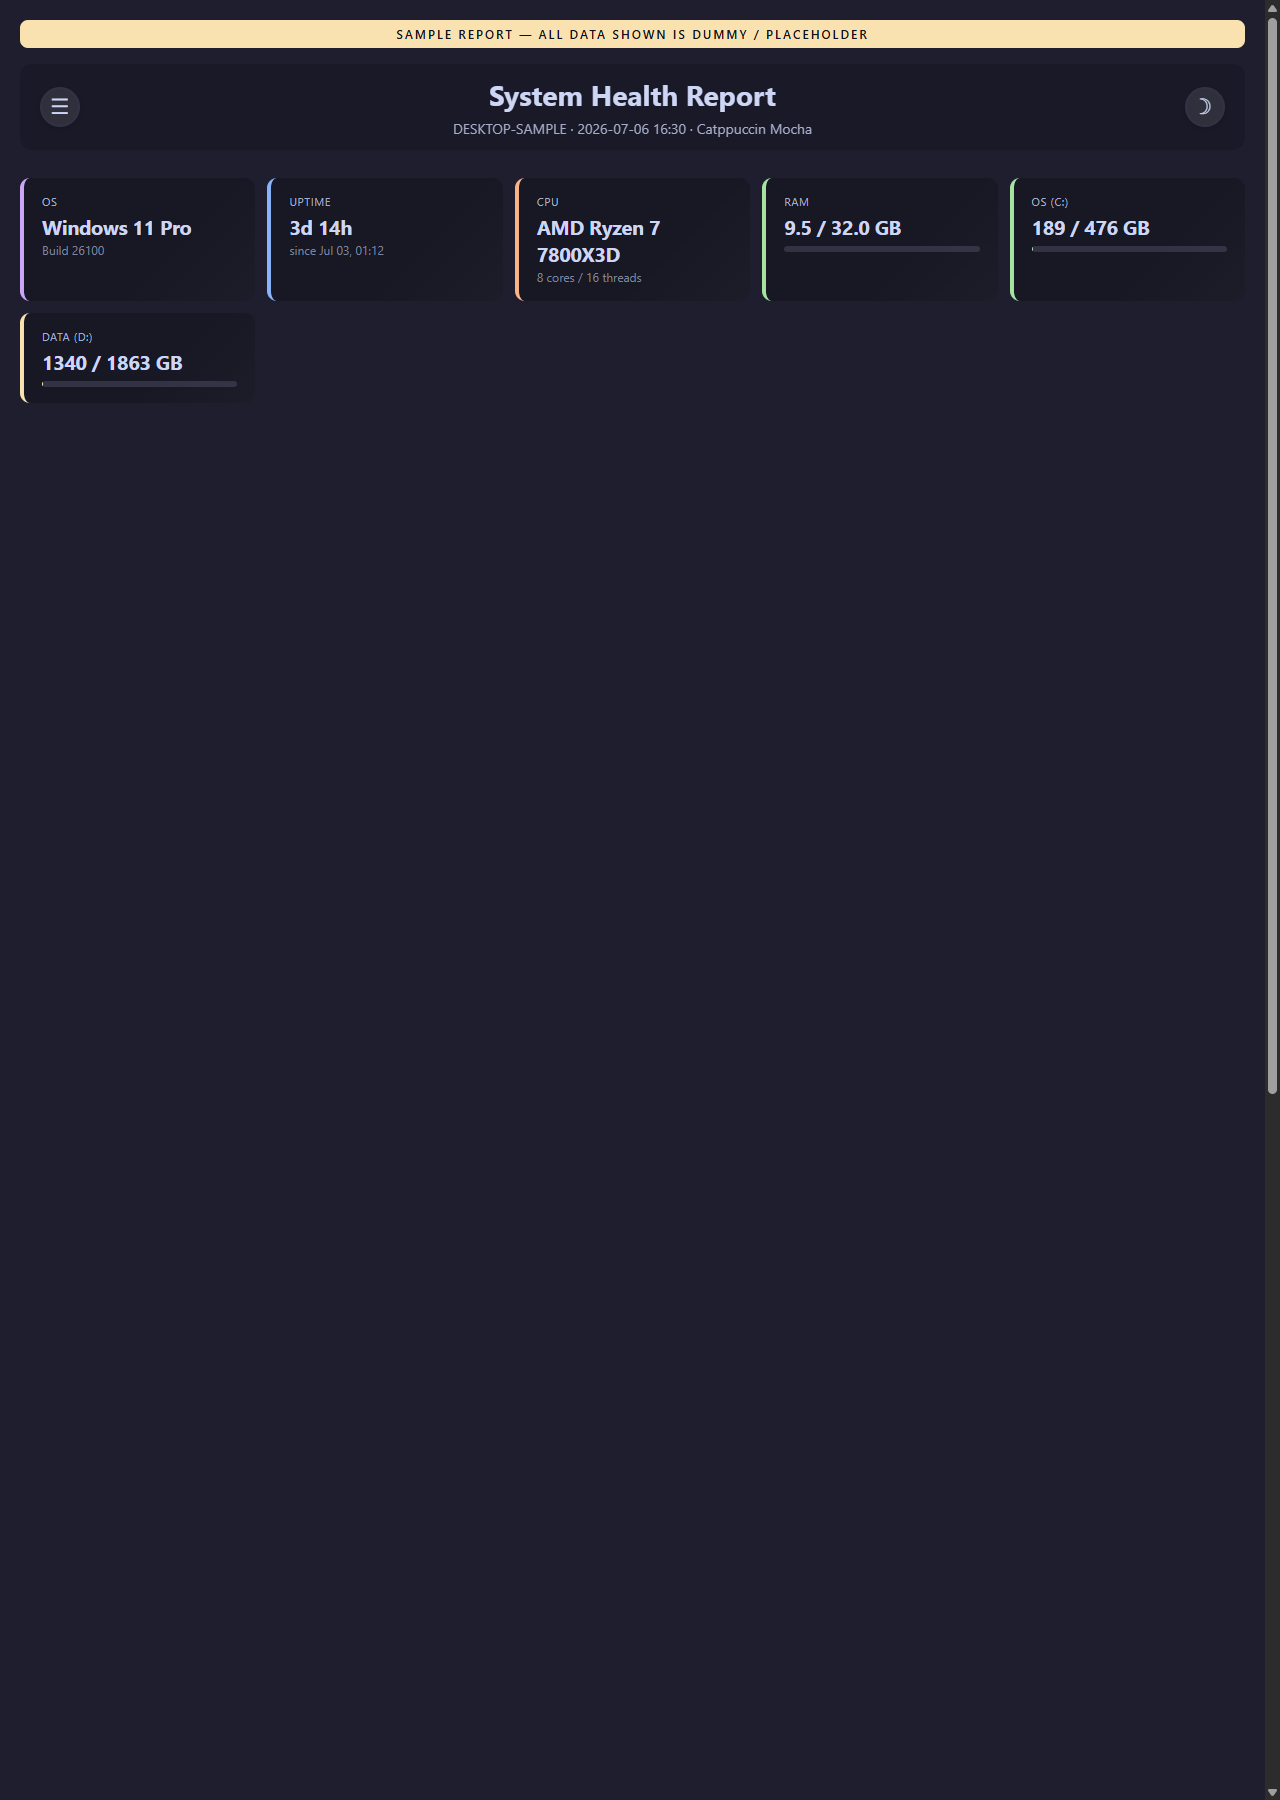
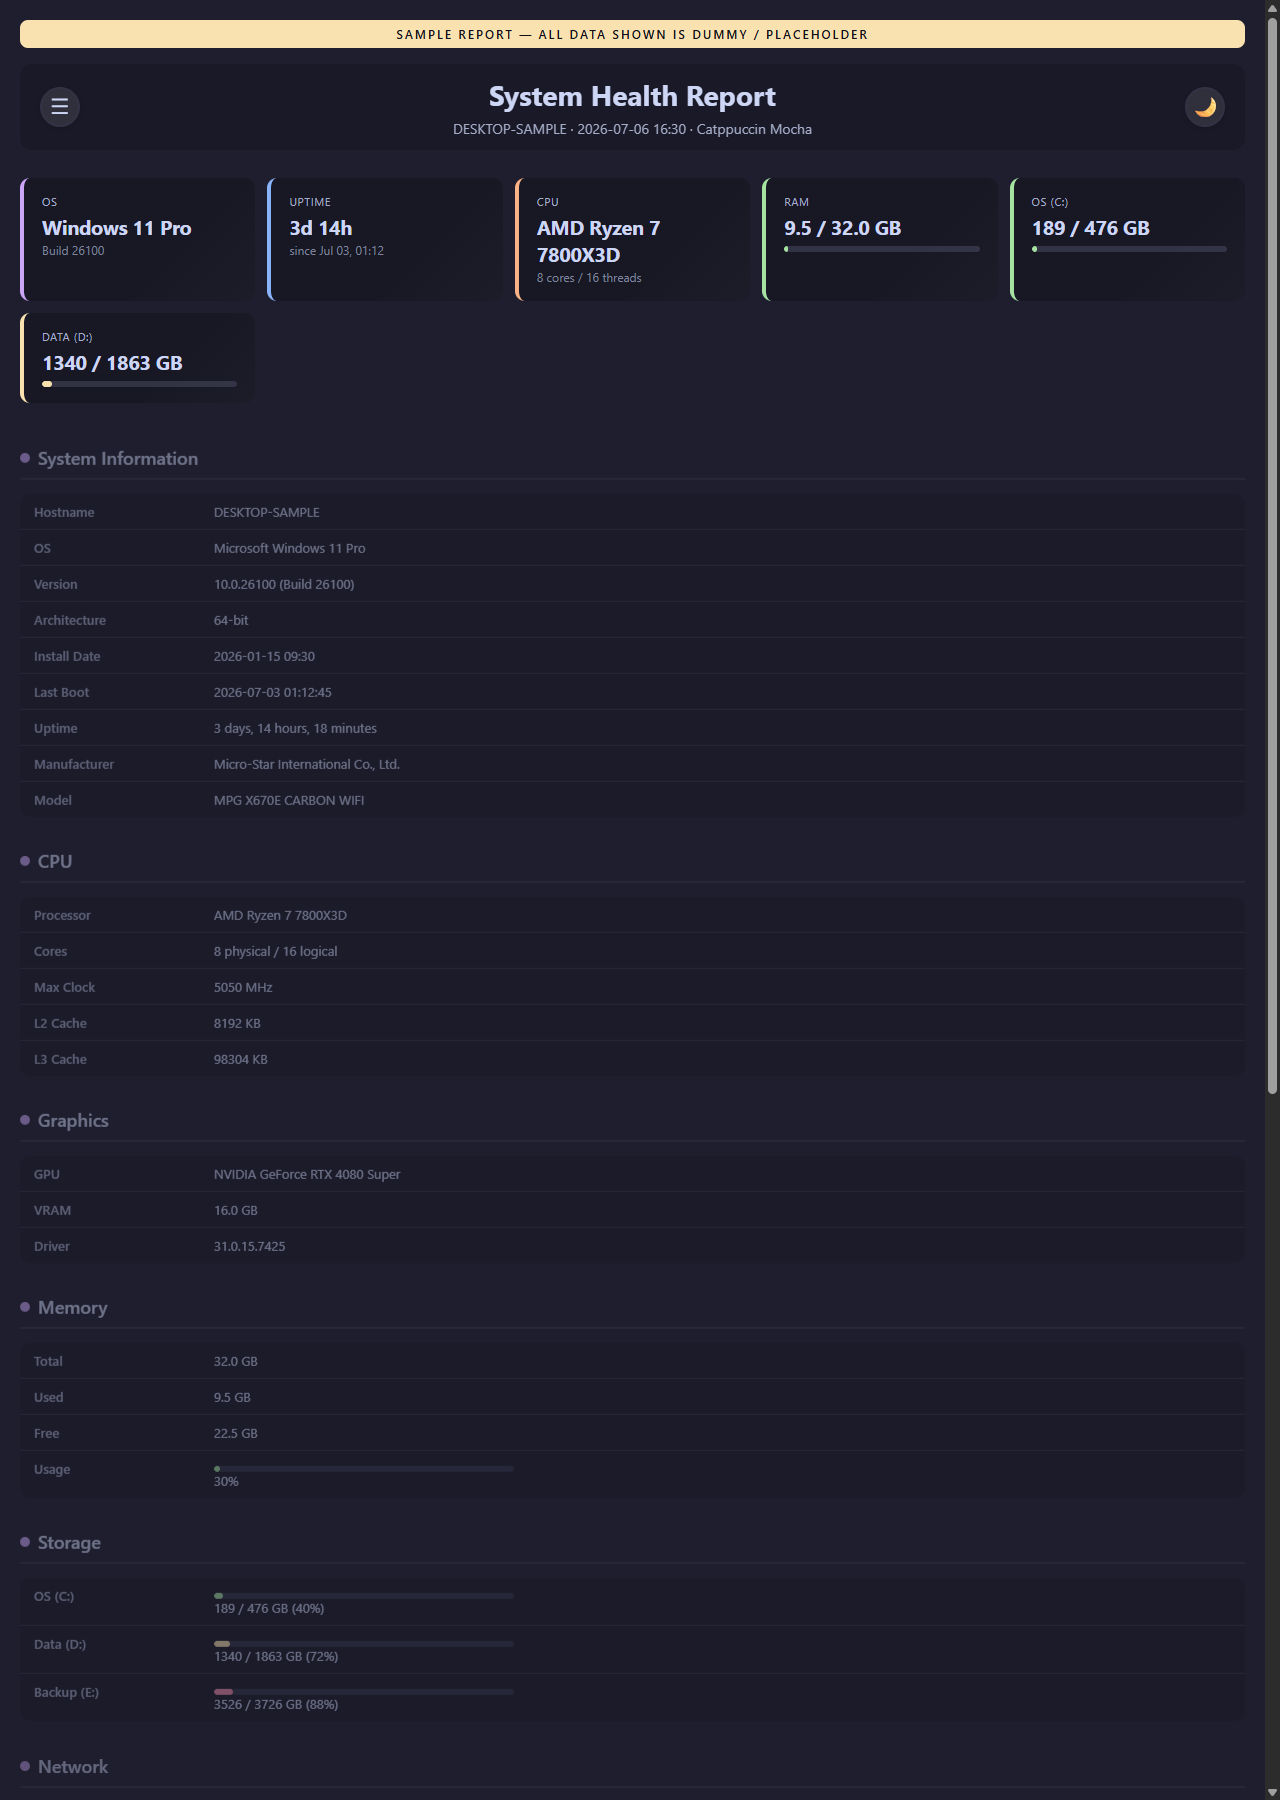
Revert moon back to emoji (🌙) with color rendering

diff --git a/scripts/SystemHealthReport/sample-report.html b/scripts/SystemHealthReport/sample-report.html
@@ -196,7 +196,7 @@ tbody tr:hover { background: rgba(255,255,255,0.03); }
 <h1>System Health Report</h1>
 <div class="subtitle">DESKTOP-SAMPLE &middot; 2026-07-06 16:30 &middot; Catppuccin Mocha</div>
 </div>
-<button class="theme-toggle" id="themeToggle" aria-label="Toggle theme">☽</button>
+<button class="theme-toggle" id="themeToggle" aria-label="Toggle theme">🌙</button>
 </div>
 
 <div class="summary">
@@ -350,7 +350,7 @@ document.querySelectorAll('.bar-fill').forEach(bar => {
 const toggle = document.getElementById("themeToggle");
 const html = document.documentElement;
 const sub = document.querySelector('.subtitle');
-const themes = { mocha: '☽', latte: '☀️' };
+const themes = { mocha: '🌙', latte: '☀️' };
 const names = { mocha: 'Mocha', latte: 'Latte' };
 toggle.addEventListener("click", () => {
     const cur = html.getAttribute('data-theme');